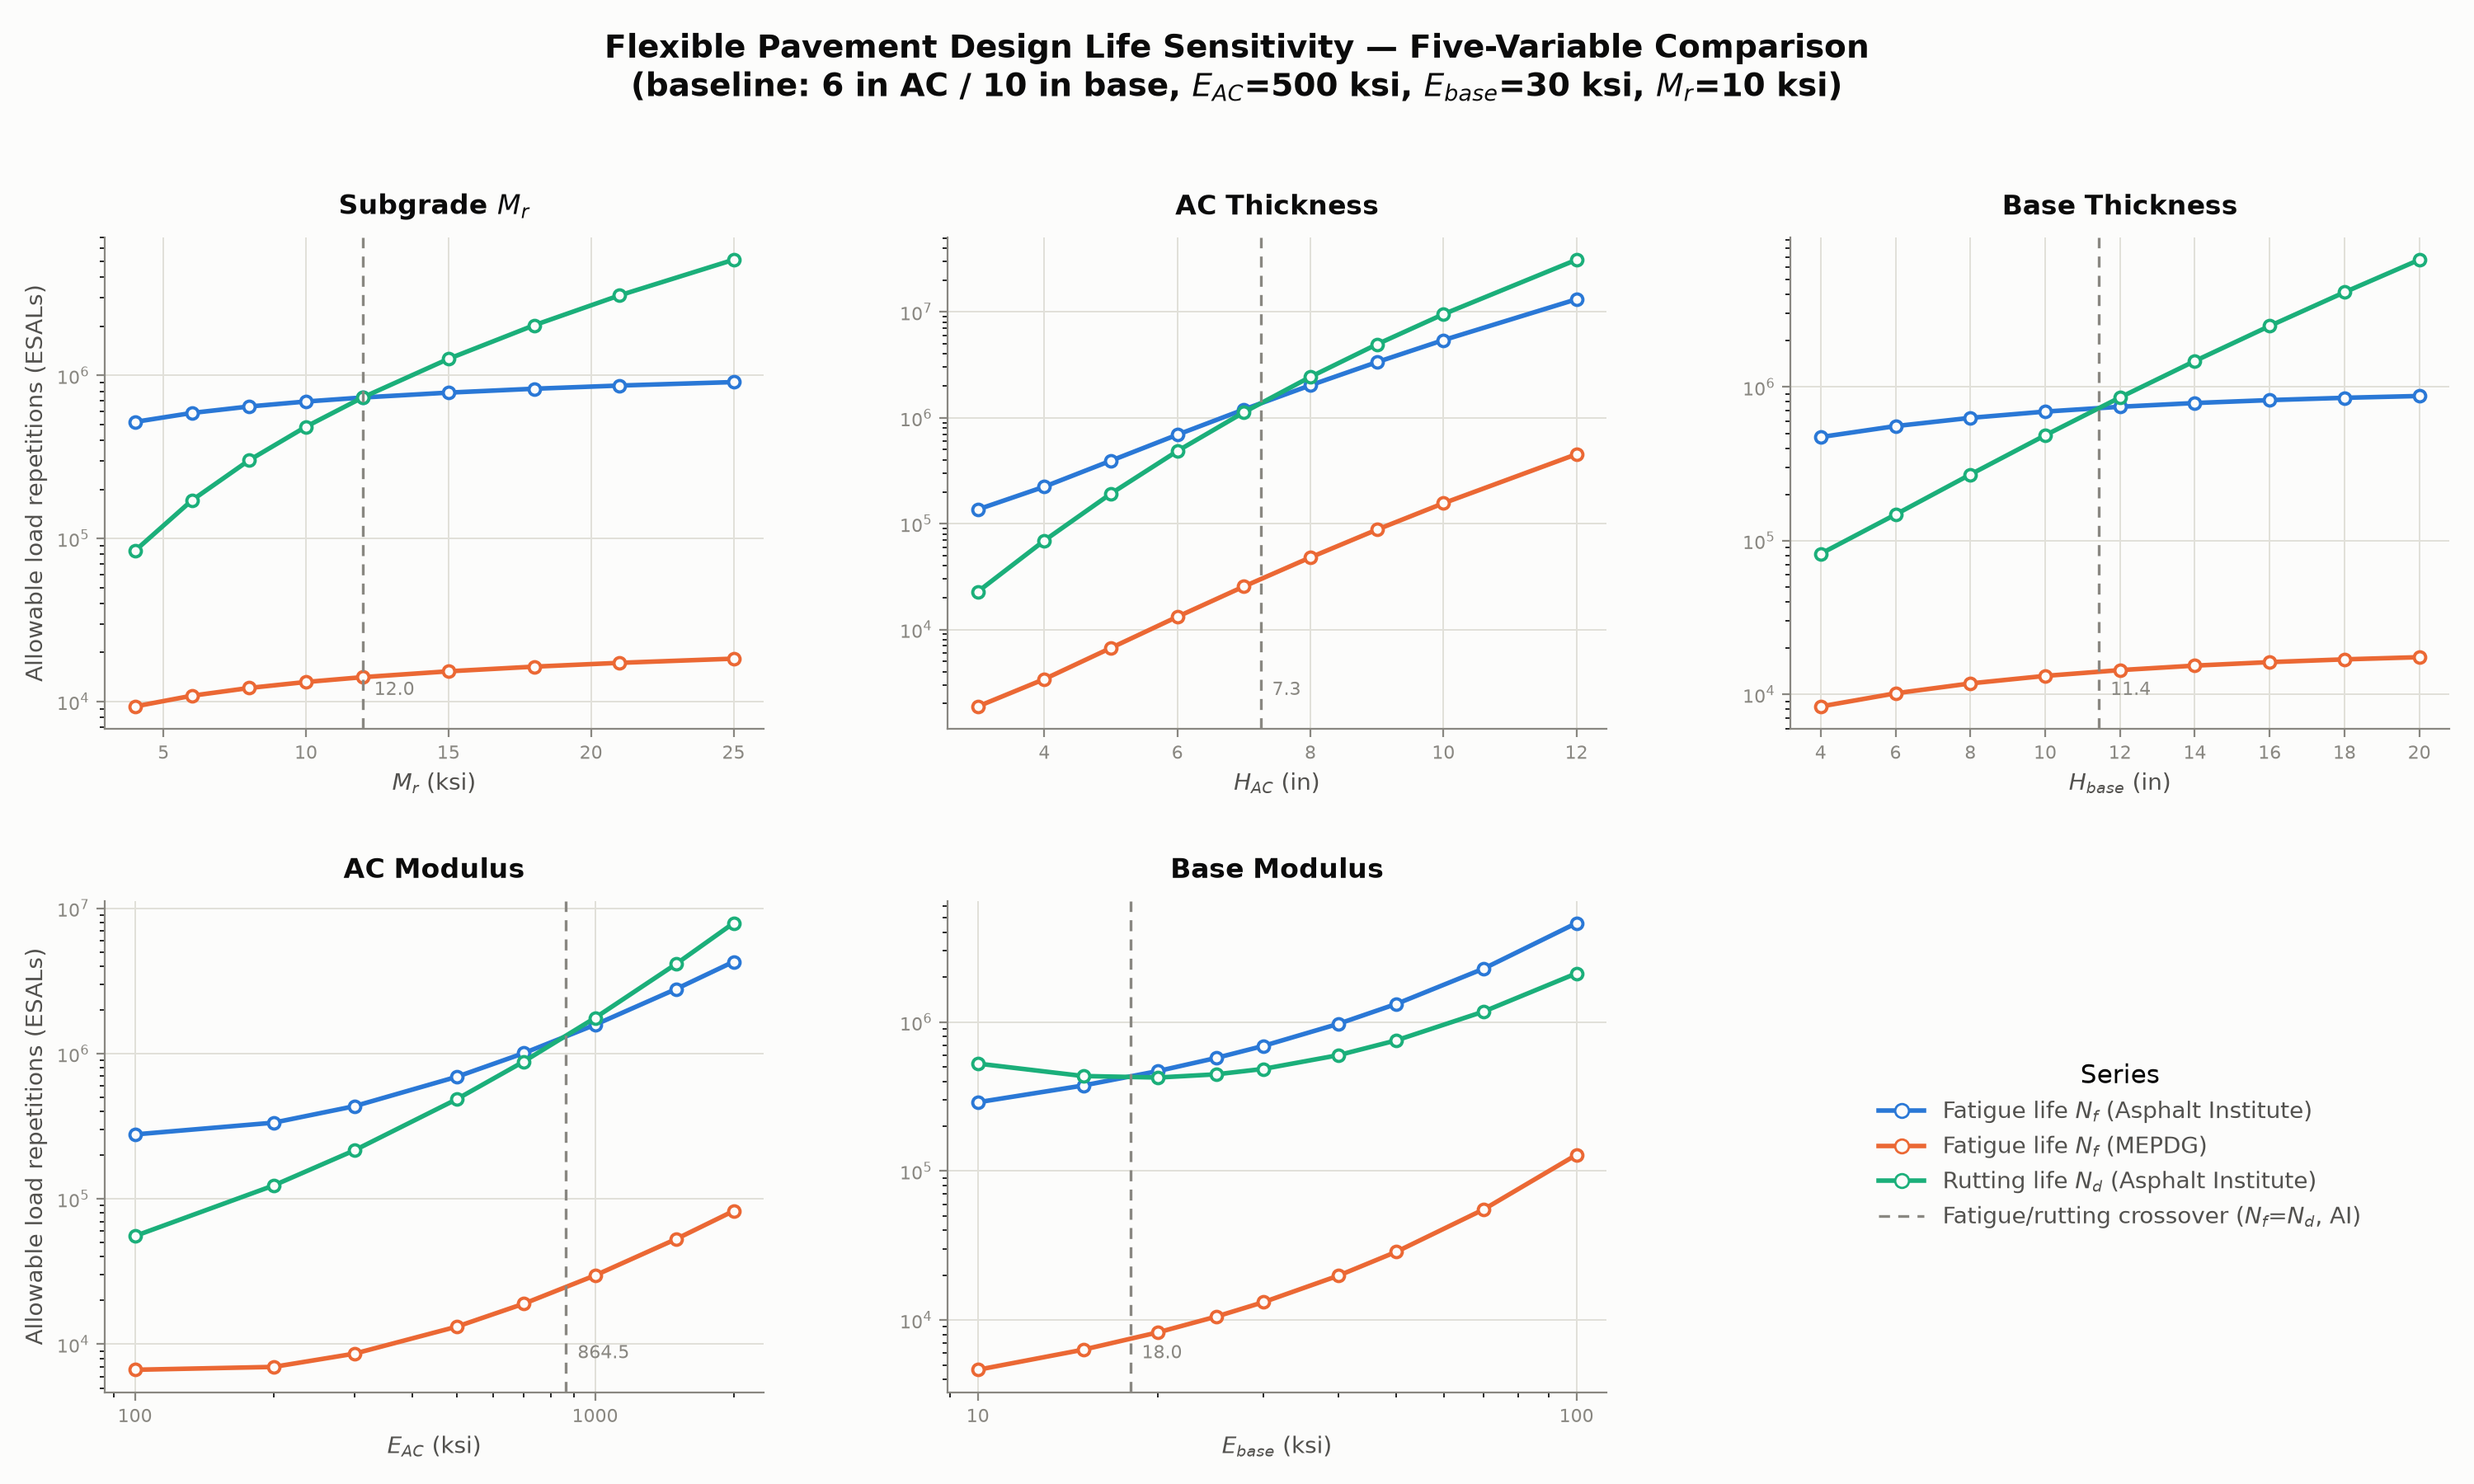
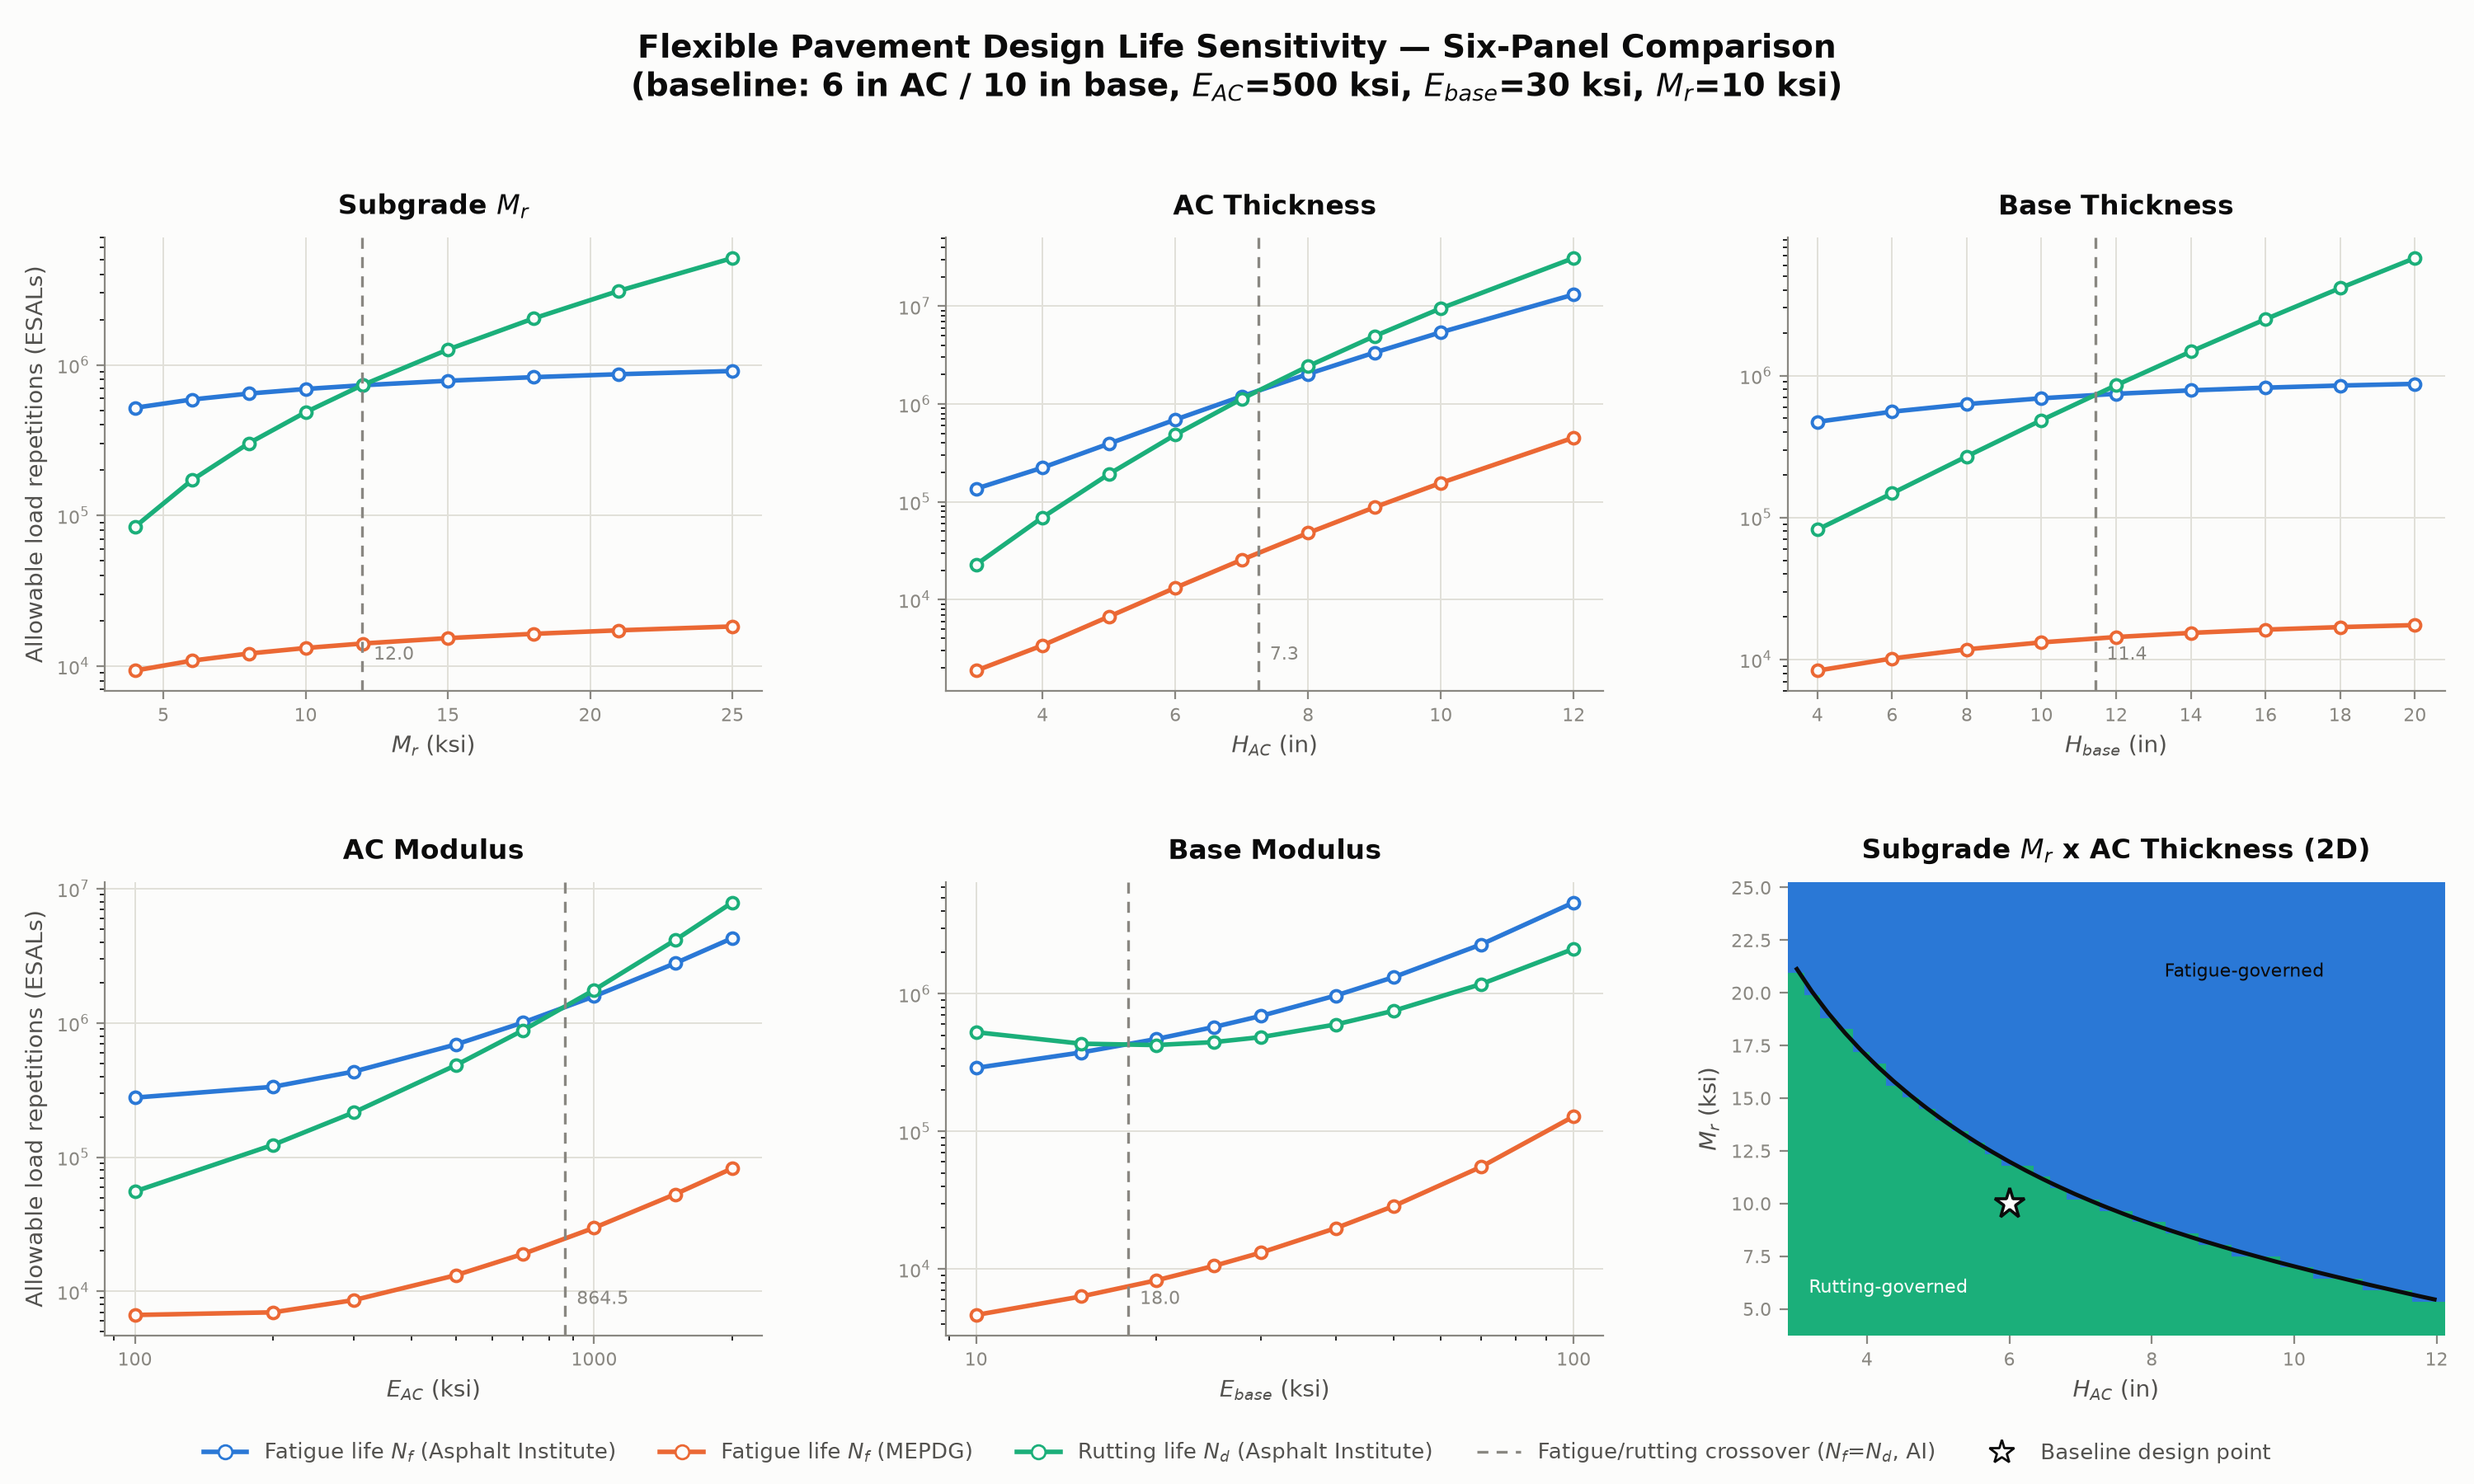
Add Mr x AC thickness 2D panel to the combined comparison figure
Extends combined_sensitivity_figure.py from 5 panels to 6: the fifth
1D sweep panel's empty legend cell is replaced with the Mr x AC
thickness governance map, and the shared series legend moves to a
single row below the whole figure so it still covers both the line
panels and the 2D panel's boundary/baseline marker.

Claude-Session: https://claude.ai/code/session_0181sRUARY2i2xQCNFgcbL3T

diff --git a/Resilience/combined_sensitivity_figure.py b/Resilience/combined_sensitivity_figure.py
@@ -1,12 +1,13 @@
 """
-Combined 5-panel figure comparing all sensitivity sweeps.
+Combined 6-panel figure comparing all sensitivity sweeps.
 
 Reads the CSVs already written by sensitivity_subgrade_Mr.py,
 sensitivity_AC_thickness.py, sensitivity_base_thickness.py,
-sensitivity_AC_modulus.py, and sensitivity_base_modulus.py (run those
-first) and lays them out on one figure with a shared legend, so the
-fatigue/rutting crossover behavior can be compared side by side across
-all five variables.
+sensitivity_AC_modulus.py, sensitivity_base_modulus.py, and
+sensitivity_Mr_AC_thickness_2D.py (run those first) and lays them out on
+one figure with a shared legend, so the fatigue/rutting crossover
+behavior can be compared side by side across all five 1D sweeps plus the
+one 2D (environmental x structural) sweep.
 
 Output
 ------
@@ -16,10 +17,12 @@ import os
 import csv
 import math
 
+import numpy as np
 import matplotlib
 matplotlib.use("Agg")
 import matplotlib.pyplot as plt
 import matplotlib.ticker as mticker
+from matplotlib.colors import ListedColormap
 
 RESULTS_DIR = os.path.join(os.path.dirname(os.path.abspath(__file__)), "results")
 
@@ -115,11 +118,48 @@ for ax, (fname, xcol, title, xlabel, xscale) in zip(axes_flat, PANELS):
 axes[0, 0].set_ylabel("Allowable load repetitions (ESALs)", color=SEC_INK, fontsize=10)
 axes[1, 0].set_ylabel("Allowable load repetitions (ESALs)", color=SEC_INK, fontsize=10)
 
-# 6th cell: legend + summary
-legend_ax = axes_flat[5]
-legend_ax.axis("off")
-legend_ax.set_facecolor(SURFACE)
+# --- 6th cell: Mr x AC thickness 2D governance map ---
+ax6 = axes_flat[5]
+ax6.set_facecolor(SURFACE)
 
+rows2d = read_csv(os.path.join(RESULTS_DIR, "Mr_AC_thickness_2D.csv"))
+H_AC_vals = sorted(set(float(r["H_AC_in"]) for r in rows2d))
+Mr_vals = sorted(set(float(r["Mr_ksi"]) for r in rows2d))
+hac_index = {v: j for j, v in enumerate(H_AC_vals)}
+mr_index = {v: i for i, v in enumerate(Mr_vals)}
+gov_grid = np.zeros((len(Mr_vals), len(H_AC_vals)))
+Nf_grid = np.zeros_like(gov_grid)
+Nd_grid = np.zeros_like(gov_grid)
+for r in rows2d:
+    i, j = mr_index[float(r["Mr_ksi"])], hac_index[float(r["H_AC_in"])]
+    gov_grid[i, j] = 1.0 if r["governing_AI"] == "rutting" else 0.0
+    Nf_grid[i, j] = float(r["Nf_AI"])
+    Nd_grid[i, j] = float(r["Nd_AI"])
+
+H_AC_vals_a = np.array(H_AC_vals)
+Mr_vals_a = np.array(Mr_vals)
+dAC = (H_AC_vals_a[1] - H_AC_vals_a[0]) / 2
+dMr = (Mr_vals_a[1] - Mr_vals_a[0]) / 2
+AC_edges = np.concatenate([[H_AC_vals_a[0] - dAC], H_AC_vals_a[:-1] + dAC, [H_AC_vals_a[-1] + dAC]])
+Mr_edges = np.concatenate([[Mr_vals_a[0] - dMr], Mr_vals_a[:-1] + dMr, [Mr_vals_a[-1] + dMr]])
+
+gov_cmap = ListedColormap([BLUE, AQUA])
+ax6.pcolormesh(AC_edges, Mr_edges, gov_grid, cmap=gov_cmap, vmin=0, vmax=1, shading="flat")
+ax6.contour(H_AC_vals_a, Mr_vals_a, np.log10(Nf_grid) - np.log10(Nd_grid),
+            levels=[0], colors=INK, linewidths=1.8)
+ax6.plot(6, 10, marker="*", markersize=14, markerfacecolor=SURFACE,
+         markeredgecolor=INK, markeredgewidth=1.3, linestyle="none", zorder=5)
+ax6.text(9.3, 21, "Fatigue-governed", color=INK, fontsize=8, ha="center", va="center")
+ax6.text(4.3, 6, "Rutting-governed", color=SURFACE, fontsize=8, ha="center", va="center")
+
+ax6.set_title("Subgrade $M_r$ x AC Thickness (2D)", color=INK, fontsize=12, fontweight="bold", pad=10)
+ax6.set_xlabel("$H_{AC}$ (in)", color=SEC_INK, fontsize=10)
+ax6.set_ylabel("$M_r$ (ksi)", color=SEC_INK, fontsize=10)
+ax6.tick_params(colors=MUTED, labelsize=8)
+for spine in ax6.spines.values():
+    spine.set_visible(False)
+
+# --- shared legend across the whole figure ---
 handles = [
     plt.Line2D([0], [0], color=BLUE, linewidth=2, marker="o", markersize=6,
                markerfacecolor=SURFACE, markeredgecolor=BLUE,
@@ -132,16 +172,18 @@ handles = [
                label="Rutting life $N_d$ (Asphalt Institute)"),
     plt.Line2D([0], [0], color=MUTED, linewidth=1.2, linestyle=(0, (4, 3)),
                label="Fatigue/rutting crossover ($N_f$=$N_d$, AI)"),
+    plt.Line2D([0], [0], marker="*", markersize=11, markerfacecolor=SURFACE,
+               markeredgecolor=INK, linestyle="none", label="Baseline design point"),
 ]
-legend_ax.legend(handles=handles, loc="center", frameon=False, fontsize=10,
-                  labelcolor=SEC_INK, title="Series", title_fontsize=11)
+fig.legend(handles=handles, loc="lower center", ncol=5, frameon=False, fontsize=9.5,
+           labelcolor=SEC_INK, bbox_to_anchor=(0.5, 0.0))
 
-fig.suptitle("Flexible Pavement Design Life Sensitivity — Five-Variable Comparison\n"
+fig.suptitle("Flexible Pavement Design Life Sensitivity — Six-Panel Comparison\n"
              "(baseline: 6 in AC / 10 in base, $E_{AC}$=500 ksi, $E_{base}$=30 ksi, $M_r$=10 ksi)",
              color=INK, fontsize=14, fontweight="bold", y=0.98)
 
 fig.tight_layout()
-fig.subplots_adjust(top=0.84, hspace=0.35, wspace=0.28)
+fig.subplots_adjust(top=0.84, bottom=0.10, hspace=0.42, wspace=0.28)
 png_path = os.path.join(RESULTS_DIR, "combined_sensitivity.png")
 fig.savefig(png_path, facecolor=SURFACE)
 print(f"Wrote {png_path}")

diff --git a/Resilience/README.md b/Resilience/README.md
@@ -26,10 +26,11 @@ elastic response, for a flexible pavement resilience study.
 - `sensitivity_base_modulus.py` — sweeps granular base modulus (10-100 ksi)
   with all thicknesses, AC modulus, and subgrade Mr held fixed. Writes
   `results/base_modulus_sensitivity.csv` and `.png`.
-- `combined_sensitivity_figure.py` — reads all five sweeps' CSVs (run them
-  first) and lays them out as a 5-panel comparison with a shared legend
-  and a marked fatigue/rutting crossover per panel. Writes
-  `results/combined_sensitivity.png`.
+- `combined_sensitivity_figure.py` — reads all five 1D sweeps' CSVs plus
+  `Mr_AC_thickness_2D.csv` (run those first) and lays them out as a
+  6-panel comparison (five 1D line panels + the Mr x AC thickness 2D
+  governance map) with one shared legend and a marked fatigue/rutting
+  crossover per panel. Writes `results/combined_sensitivity.png`.
 - `sensitivity_AC_base_modulus_2D.py` — sweeps E_AC and E_base together on
   a 40x40 log-spaced grid (1600 PyMastic evaluations, ~12s), with
   thicknesses and subgrade Mr held fixed. Writes
